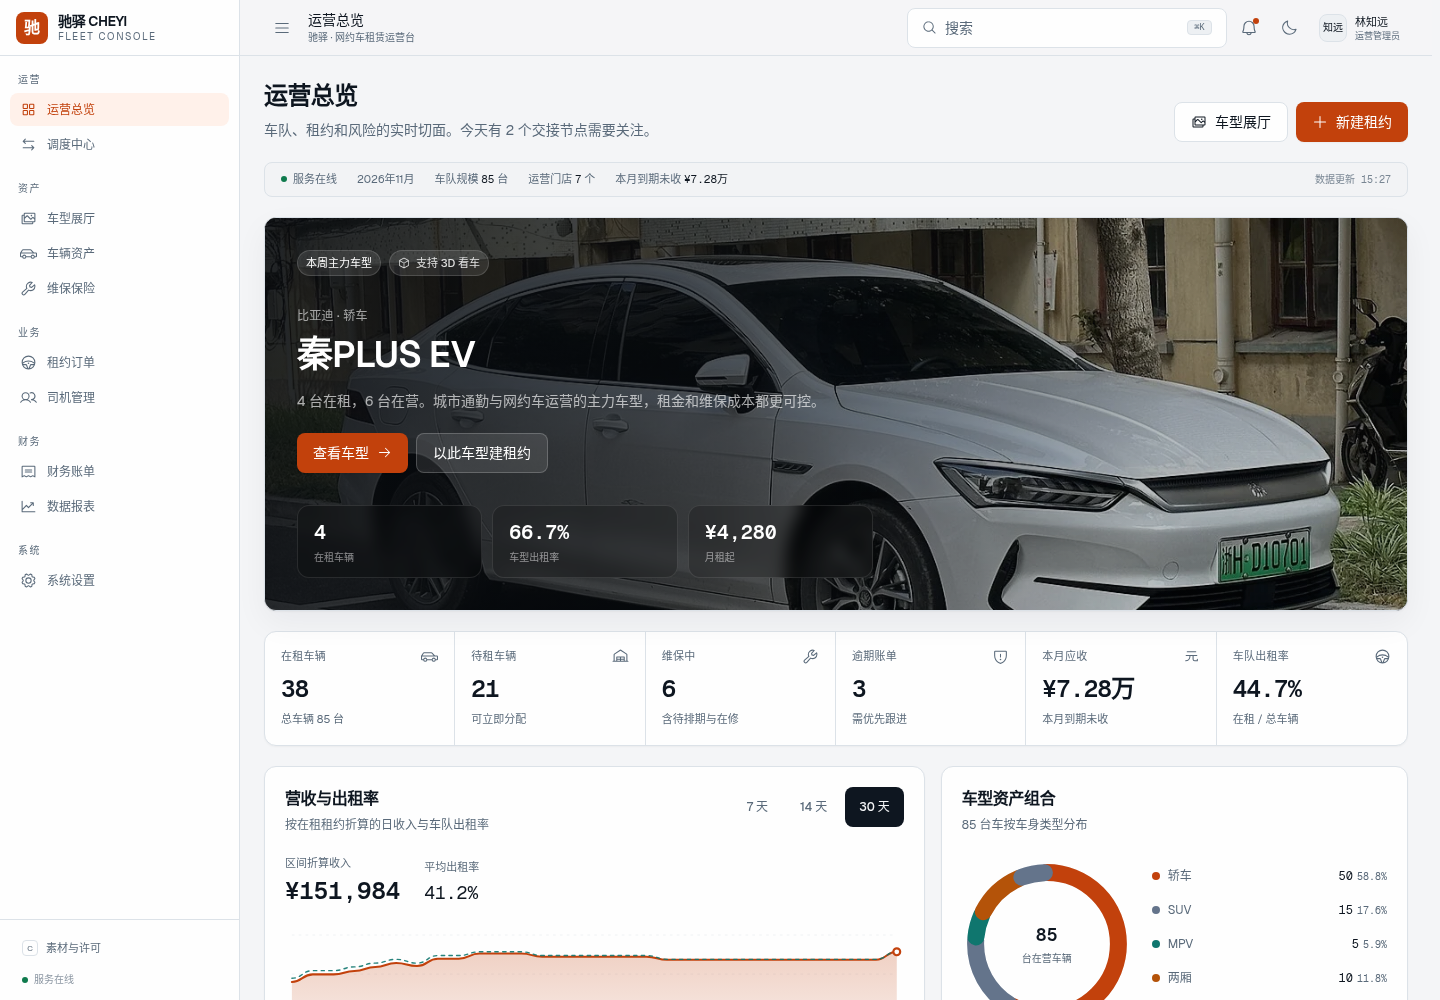
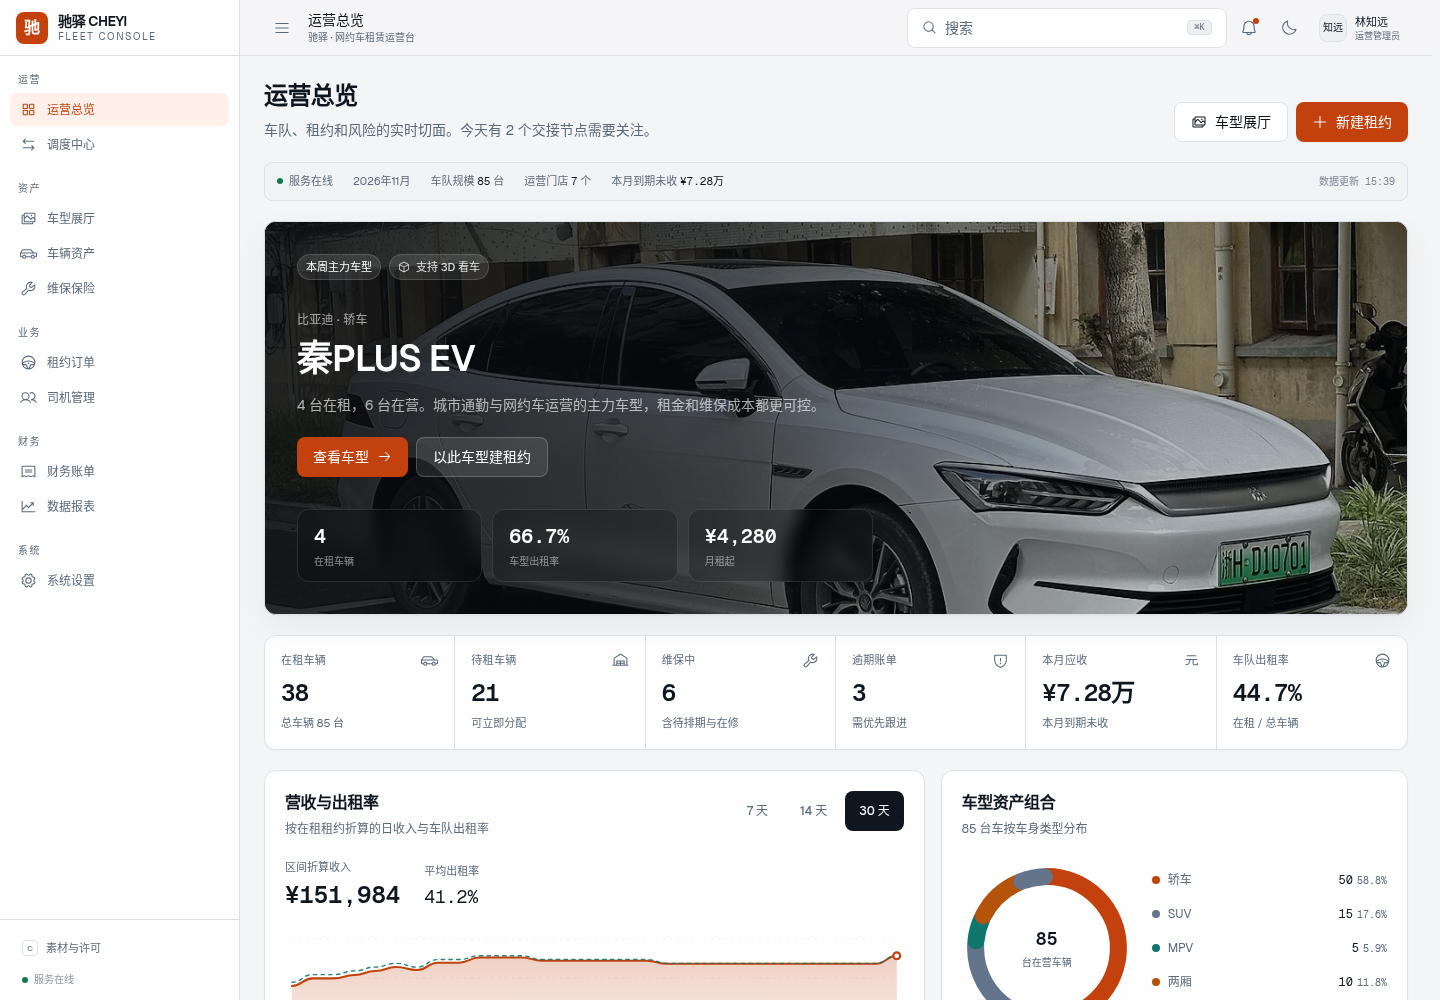
docs: 补充第三轮样式复用与一致性复核
- 记录 InlineError、BackLink、StatCell 的复用收敛
- 补充 Toast、加载、确认弹窗、完成态按钮和文案一致性结论
- 更新 UI 文件计数与组件复用索引
- 更新登录、总览和移动端预览截图

diff --git a/docs/07-样式复用与一致性审计.md b/docs/07-样式复用与一致性审计.md
@@ -205,3 +205,29 @@
 - 趋势图 hover 提示：日期 / 金额 / 出租率
 - 车型组合 hover 中心显示对应车型数量与占比
 - 最近租约姓名块彩色 Avatar
+
+---
+
+## 11. 第三轮一致性复核（2026-11-26）
+
+本轮只复用既有 Token 与组件，没有新增一次性 CSS 类。
+
+| 发现的重复 / 不一致 | 修正 |
+|---|---|
+| 14 处表单和设置页重复手写危险提示框 | 新增共享 `InlineError`，统一圆角、描边、字号、`role=alert` 与间距 |
+| 5 个详情页重复手写返回链接 | 新增共享 `BackLink`，统一 ArrowLeft、字号、hover 与间距 |
+| 统计卡片在 StatStrip、司机详情、车辆详情重复手写 hover 容器 | 新增共享 `StatCell`，统一 `p-4`、`hover:bg-card2/50` 与图标强调色 |
+| 图表 Tooltip 与富文本链接浮层各自重复写浮层表面 | 统一复用 `.popover-panel`，圆角、阴影和进入动画一致 |
+| 14 个 Card 标题缺少统一的 `tracking-tight` | 统一标题字距，与 `SectionHeader`、弹窗标题一致 |
+| 设置页门店卡片重复手写卡面 | 改为复用 `Card`，仅覆盖背景与阴影 |
+| 总览状态条重复手写 info 表面 | 复用 `.info-tile-compact` |
+| 登录页统计标签与接口字段语义不一致 | “在营车辆/认证司机”改为“车队车辆/司机总数”，门店数来自 public overview |
+| 部分页面链接、标题、按钮语境不统一 | 详情返回统一 `BackLink`；卡片标题统一 tracking；完成态沿用 disabled 按钮 |
+
+交互一致性结论：
+
+- 页面级加载使用 Skeleton，列表错误使用 ErrorState
+- 所有业务写操作统一 Button loading + Toast 成功/失败反馈
+- 表单字段错误使用 Field inline error；跨字段/步骤校验使用 warning Toast
+- 租约签约、取消等生命周期操作使用 ConfirmDialog；普通单步操作直接执行并反馈
+- 完成态操作统一使用 disabled Button，cursor 为 `not-allowed`

diff --git a/docs/05-代码拆分与目录结构.md b/docs/05-代码拆分与目录结构.md
@@ -26,7 +26,7 @@
 
 | 文件 | 拆分前 | 拆分后 |
 |---|---:|---|
-| `components/ui.tsx` | 759 行 | 拆成 27 个业务文件（另 index.ts），最大 178 行（含自研表单控件） |
+| `components/ui.tsx` | 759 行 | 拆成 28 个业务文件（另 index.ts），最大 178 行（含自研表单控件） |
 | `components/layout.tsx` | 442 行 | 拆成 7 个文件，最大 110 行 |
 | `components/Vehicle3DViewer.tsx` | 360 行 | 拆成 7 个文件，最大 170 行 |
 | `pages/Dashboard.tsx` | 333 行 | 页面 + 6 个子组件 + hook，最大 68 行 |
@@ -114,6 +114,7 @@ frontend/src/
 ├── components/
 │   ├── ui/
 │   │   ├── index.ts
+│   │   ├── BackLink.tsx
 │   │   ├── button.tsx
 │   │   ├── link-button.tsx
 │   │   ├── copy-button.tsx

diff --git a/docs/08-布局复用与API分层.md b/docs/08-布局复用与API分层.md
@@ -106,6 +106,7 @@ lib/api.ts（通用 fetch / ApiError / query string）
 | `Button` / `ButtonLink` / `CopyButton` | 按钮、链接按钮、圆形复制按钮 |
 | `Modal` / `ConfirmDialog` / `Drawer` | 所有弹层 |
 | `OverlayHeader` / `PasswordToggle` | 弹层头、密码显示切换 |
+| `InlineError` / `BackLink` / `StatCell` | 错误提示、返回链接、统计单元格复用 |
 | `DataTable` / `Pagination` | 表格与分页 |
 
 没有页面新增一次性颜色、阴影或圆角。
